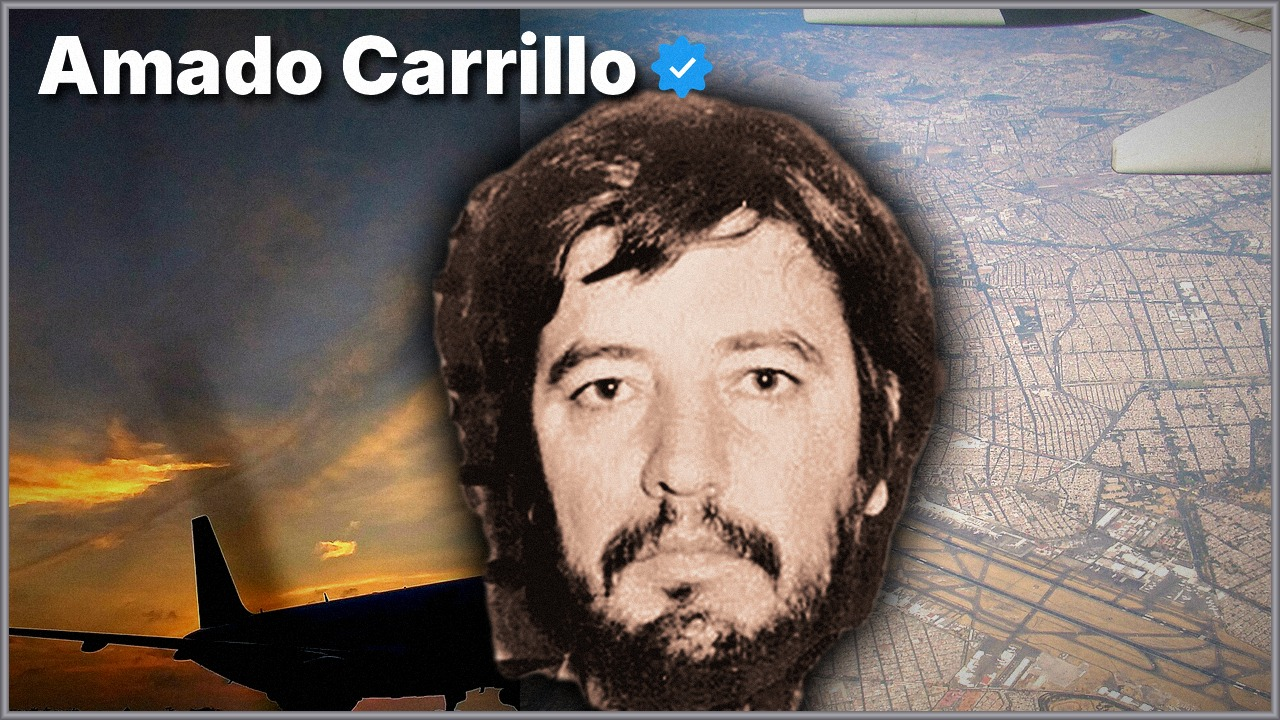
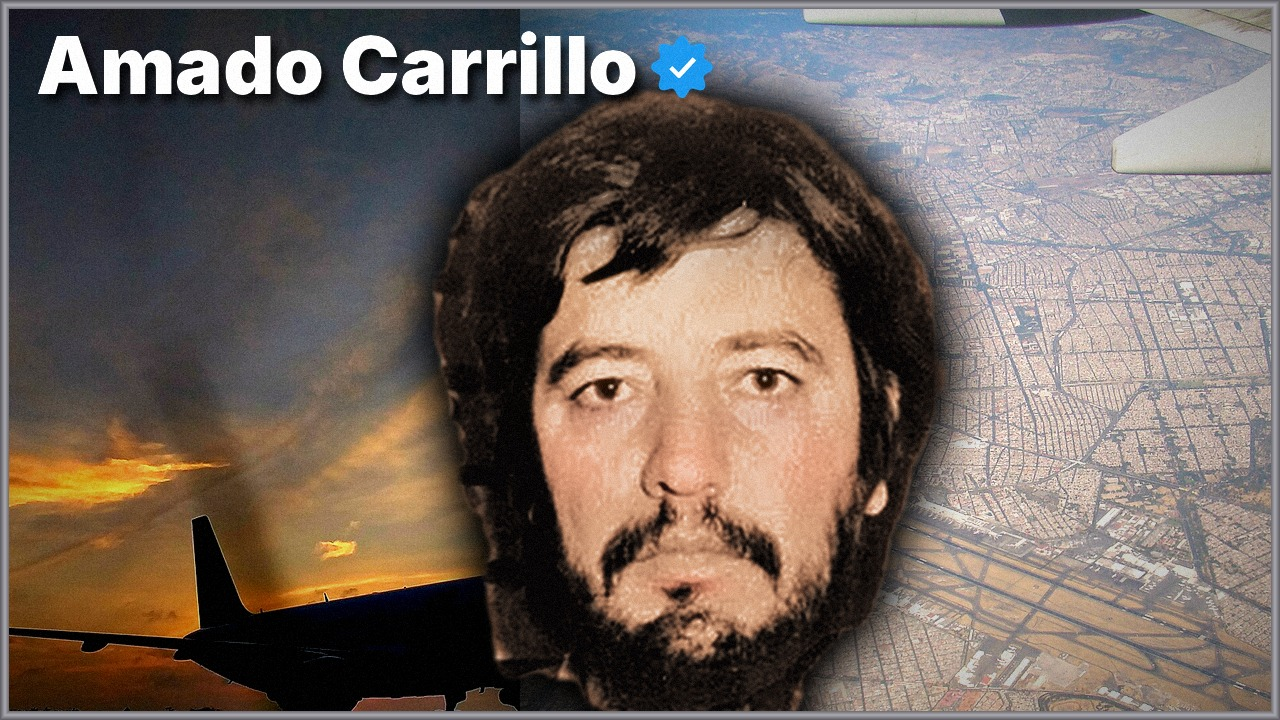
Miniatura Amado: colorizacion de rostro mas natural (piel con matices, pelo marron)
Claude-Session: https://claude.ai/code/session_011QfsHNEVyrMTuqwhNXZ9Nu

diff --git a/la_cosa_nuestra/miniaturas/colorizar_rostro.py b/la_cosa_nuestra/miniaturas/colorizar_rostro.py
@@ -1,0 +1,43 @@
+#!/usr/bin/env python3
+"""Colorizacion estimada de la ficha en blanco y negro de Amado Carrillo: piel con matices (frente mas calida, mejillas rosadas,
+labios), pelo/barba/cejas en marron oscuro y ojos castanos. No es el color real (no existe foto a color): es una estimacion."""
+import numpy as np, cv2
+from PIL import Image
+
+PIEL = [(0, (26, 17, 14)), (60, (86, 54, 40)), (110, (138, 92, 68)), (160, (184, 130, 98)), (210, (216, 164, 128)), (255, (238, 196, 162))]
+PELO = [(0, (8, 6, 6)), (45, (32, 24, 20)), (80, (58, 44, 36)), (120, (94, 74, 60)), (255, (140, 112, 92))]
+
+
+def rampa(g, tabla):
+    xs = [p for p, _ in tabla]
+    return np.stack([np.interp(g, xs, [c[i] for _, c in tabla]) for i in range(3)], -1)
+
+
+def mancha(h, w, cx, cy, rx, ry):
+    yy, xx = np.mgrid[0:h, 0:w]
+    return np.exp(-(((xx / w - cx) / rx) ** 2 + ((yy / h - cy) / ry) ** 2))
+
+
+def colorizar(cara):
+    rgba = np.asarray(cara.convert("RGBA")).astype(np.float32); g = rgba[..., 0]; al = rgba[..., 3]
+    h, w = g.shape
+    gs = cv2.GaussianBlur(g, (0, 0), 6)
+    es_piel = np.clip((gs - 70) / 60, 0, 1)[..., None]                        # zonas claras = piel; oscuras = pelo/barba/cejas
+    es_piel = es_piel * np.clip(1.0 - 1.2 * mancha(h, w, 0.5, 0.12, 0.55, 0.12), 0, 1)[..., None] + 0 * es_piel
+    gp = 255 * (g / 255.0) ** 1.22                                           # baja un poco los medios (el blanco y negro esta muy quemado)
+    piel, pelo = rampa(gp, PIEL), rampa(g, PELO)
+    out = piel * es_piel + pelo * (1 - es_piel)
+    # matices de la piel
+    frente = mancha(h, w, 0.5, 0.30, 0.30, 0.10)[..., None]; out += frente * es_piel * np.array([6, 3, -6])        # frente algo mas calida
+    mej = (mancha(h, w, 0.27, 0.58, 0.10, 0.07) + mancha(h, w, 0.73, 0.58, 0.10, 0.07))[..., None]
+    out += mej * es_piel * np.array([13, -5, -2]) * (g[..., None] / 255.0)                                          # rubor
+    nariz = mancha(h, w, 0.5, 0.58, 0.07, 0.07)[..., None]; out += nariz * es_piel * np.array([14, -4, -2])
+    labio = mancha(h, w, 0.5, 0.765, 0.07, 0.018)[..., None]; out += labio * es_piel * np.array([24, -10, -6]) * (g[..., None] / 255.0)
+    ojeras = (mancha(h, w, 0.34, 0.50, 0.08, 0.025) + mancha(h, w, 0.65, 0.50, 0.08, 0.025))[..., None]; out += ojeras * es_piel * np.array([-6, -10, -2])
+    # ojos castanos: iris oscuro cerca de los ojos con un tono marron
+    ojo = (mancha(h, w, 0.335, 0.455, 0.035, 0.022) + mancha(h, w, 0.65, 0.455, 0.035, 0.022))[..., None]
+    out += ojo * (1 - np.clip(g[..., None] / 140, 0, 1)) * np.array([28, 10, -4])
+    # blancos de los ojos y dientes: casi neutros
+    blanco = np.clip((g - 225) / 25, 0, 1)[..., None]; out = out * (1 - 0.45 * blanco) + 238 * 0.45 * blanco
+    out = np.clip(out, 0, 255)
+    return Image.fromarray(np.dstack([out, al]).astype(np.uint8), "RGBA")

diff --git a/la_cosa_nuestra/miniaturas/miniatura_amado_estilo.py b/la_cosa_nuestra/miniaturas/miniatura_amado_estilo.py
@@ -6,7 +6,7 @@ import os, sys
 import numpy as np
 from PIL import Image
 from crear_miniaturas import *
-from miniatura_documental import colorizar
+from colorizar_rostro import colorizar
 from miniatura_banderas import mitad, insignia, marco
 
 
